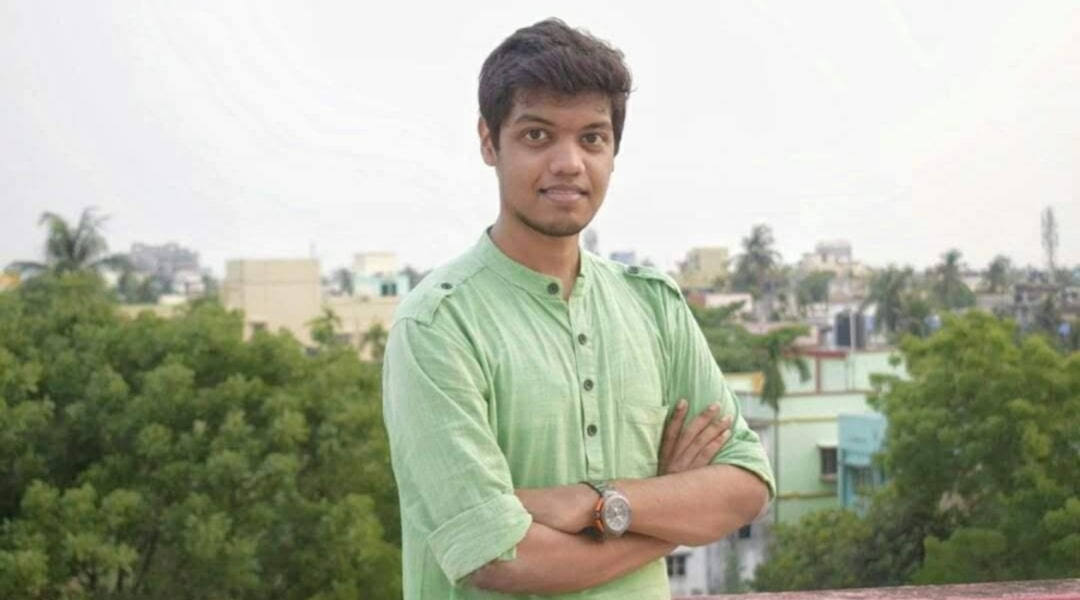
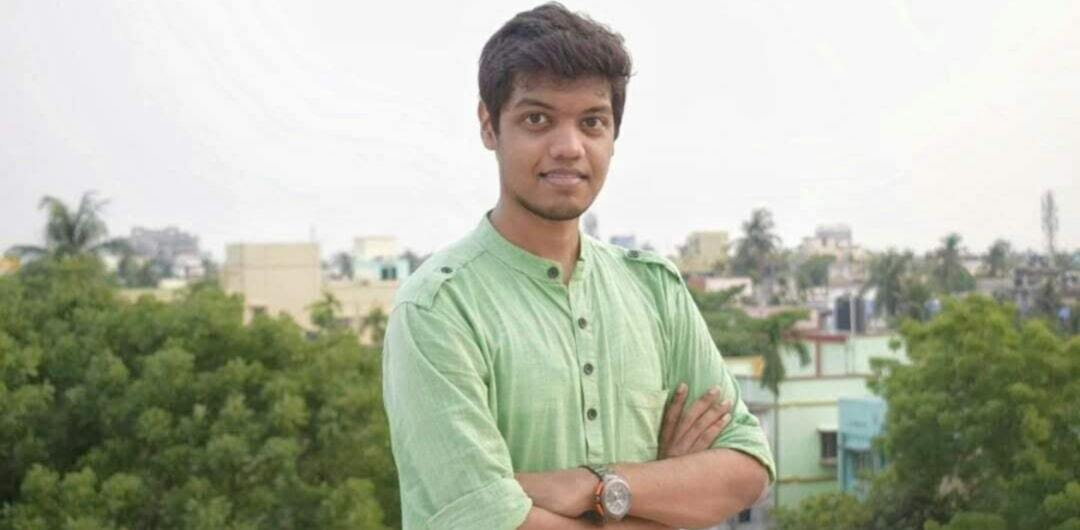
feat(ui): add profile info section

diff --git a/src/containers/profile/styles.tsx b/src/containers/profile/styles.tsx
@@ -1,7 +1,10 @@
 import styled from 'styled-components';
+import { darken } from 'polished';
+
 import {
   LAPTOP, DESKTOP, TABLET,
 } from '../../constants';
+import { TypographyIntroSuper, TypographyIntroReduced, TypographyBody } from '../../styles';
 
 export const ProfileImageWrapper = styled.div`
     width: 100%;
@@ -11,6 +14,7 @@ export const ProfileImageWrapper = styled.div`
 export const CoverImage = styled.img`
     width: 100%;
     max-height: 100%;
+    margin-bottom: 12%;
 `;
 
 export const DisplayImage = styled.img`
@@ -18,7 +22,7 @@ export const DisplayImage = styled.img`
     border-radius: 50%;
     position: absolute;
     left: 5%;
-    bottom: -20%;
+    bottom: 8px;
     border: 4px solid ${({ theme }) => theme.background};
 `;
 
@@ -38,7 +42,7 @@ export const FeedWrapper = styled.section`
 export const Feed = styled.div`
     max-width: 550px;
     min-width: 50%;
-    min-height: 150vh;
+    min-height: 100vh;
     border-right: 1px solid ${({ theme }) => theme.border};
     @media only screen and (max-width: ${TABLET}px) {
         width: 100%;
@@ -56,4 +60,69 @@ export const Aside = styled.aside`
     @media only screen and (max-width: ${TABLET}px) {
         display: none;
     }
+`;
+
+export const Header = styled(TypographyIntroSuper)`
+    color: ${({ theme }) => theme.text};
+    width: 100%;
+    padding: 10px 20px;
+    border-bottom: 1px solid ${({ theme }) => theme.border};
+`;
+
+export const ProfileInfoContainer = styled.section`
+    margin-top: 10px;
+    width: 100%;
+    border-bottom: 1px solid ${({ theme }) => theme.border};
+    padding-left: 20px;
+    padding-bottom: 20px;
+`;
+
+export const Name = styled(TypographyIntroReduced)`
+    font-weight: bold;
+`;
+
+export const ProfileInfoWrapper = styled.div`
+    margin-top: 15px;
+`;
+
+export const ProfileRow = styled.div`
+    width: 100%;
+    display: flex;
+    flex-wrap: wrap;
+    margin-bottom: 8px;
+`;
+
+export const Info = styled(TypographyBody)`
+    display: flex;
+    flex-direction: row;
+    margin-right: 17px;
+    color: ${({ theme }) => theme.text2};
+    margin-bottom: 5px;
+`;
+
+export const InfoLogo = styled.span`
+    height: 100%;
+    width: 16px;
+    max-height: 25px;
+    display: flex;
+    align-items: center;
+    @media only screen and (max-width: ${TABLET}px) {
+        width: 14px;
+    }
+`;
+
+export const InfoLink = styled.a`
+    margin-left: 6px;
+    align-items: stretch;
+    color: ${({ theme }) => theme.color};
+    text-decoration: none;
+    font-weight: bolder;
+    &:hover {
+        color: ${({ theme }) => darken(0.1, theme.color)};
+    }
+`;
+
+export const InfoSpan = styled.span`
+    margin-left: 7px;
+    align-self: stretch
 `;

diff --git a/src/icons/Skills.tsx b/src/icons/Skills.tsx
@@ -9,7 +9,7 @@ const Skills = (): ReactElement => (
     xmlns="http://www.w3.org/2000/svg"
     viewBox="0 0 448 512"
   >
-    <path fill="currentColor" d="M446.381 182.109l1.429-8c1.313-7.355-4.342-14.109-11.813-14.109h-98.601l20.338-113.891C359.047 38.754 353.392 32 345.92 32h-8.127a12 12 0 0 0-11.813 9.891L304.89 160H177.396l20.338-113.891C199.047 38.754 193.392 32 185.92 32h-8.127a12 12 0 0 0-11.813 9.891L144.89 160H42.003a12 12 0 0 0-11.813 9.891l-1.429 8C27.448 185.246 33.103 192 40.575 192h98.6l-22.857 128H13.432a12 12 0 0 0-11.813 9.891l-1.429 8C-1.123 345.246 4.532 352 12.003 352h98.601L90.266 465.891C88.953 473.246 94.608 480 102.08 480h8.127a12 12 0 0 0 11.813-9.891L143.11 352h127.494l-20.338 113.891C248.953 473.246 254.608 480 262.08 480h8.127a12 12 0 0 0 11.813-9.891L303.11 352h102.886a12 12 0 0 0 11.813-9.891l1.429-8c1.313-7.355-4.342-14.109-11.813-14.109h-98.601l22.857-128h102.886a12 12 0 0 0 11.814-9.891zM276.318 320H148.825l22.857-128h127.494l-22.858 128z" className="" />
+    <path fill="currentColor" d="M446.381 182.109l1.429-8c1.313-7.355-4.342-14.109-11.813-14.109h-98.601l20.338-113.891C359.047 38.754 353.392 32 345.92 32h-8.127a12 12 0 0 0-11.813 9.891L304.89 160H177.396l20.338-113.891C199.047 38.754 193.392 32 185.92 32h-8.127a12 12 0 0 0-11.813 9.891L144.89 160H42.003a12 12 0 0 0-11.813 9.891l-1.429 8C27.448 185.246 33.103 192 40.575 192h98.6l-22.857 128H13.432a12 12 0 0 0-11.813 9.891l-1.429 8C-1.123 345.246 4.532 352 12.003 352h98.601L90.266 465.891C88.953 473.246 94.608 480 102.08 480h8.127a12 12 0 0 0 11.813-9.891L143.11 352h127.494l-20.338 113.891C248.953 473.246 254.608 480 262.08 480h8.127a12 12 0 0 0 11.813-9.891L303.11 352h102.886a12 12 0 0 0 11.813-9.891l1.429-8c1.313-7.355-4.342-14.109-11.813-14.109h-98.601l22.857-128h102.886a12 12 0 0 0 11.814-9.891zM276.318 320H148.825l22.857-128h127.494l-22.858 128z" />
   </Icon>
 );
 

diff --git a/src/icons/Github.tsx b/src/icons/Github.tsx
@@ -1,0 +1,16 @@
+import { ReactElement } from 'react';
+import { Icon } from '../styles';
+
+const Github = (): ReactElement => (
+  <Icon
+    aria-hidden="true"
+    focusable="false"
+    role="img"
+    xmlns="http://www.w3.org/2000/svg"
+    viewBox="0 0 496 512"
+  >
+    <path fill="currentColor" d="M165.9 397.4c0 2-2.3 3.6-5.2 3.6-3.3.3-5.6-1.3-5.6-3.6 0-2 2.3-3.6 5.2-3.6 3-.3 5.6 1.3 5.6 3.6zm-31.1-4.5c-.7 2 1.3 4.3 4.3 4.9 2.6 1 5.6 0 6.2-2s-1.3-4.3-4.3-5.2c-2.6-.7-5.5.3-6.2 2.3zm44.2-1.7c-2.9.7-4.9 2.6-4.6 4.9.3 2 2.9 3.3 5.9 2.6 2.9-.7 4.9-2.6 4.6-4.6-.3-1.9-3-3.2-5.9-2.9zM244.8 8C106.1 8 0 113.3 0 252c0 110.9 69.8 205.8 169.5 239.2 12.8 2.3 17.3-5.6 17.3-12.1 0-6.2-.3-40.4-.3-61.4 0 0-70 15-84.7-29.8 0 0-11.4-29.1-27.8-36.6 0 0-22.9-15.7 1.6-15.4 0 0 24.9 2 38.6 25.8 21.9 38.6 58.6 27.5 72.9 20.9 2.3-16 8.8-27.1 16-33.7-55.9-6.2-112.3-14.3-112.3-110.5 0-27.5 7.6-41.3 23.6-58.9-2.6-6.5-11.1-33.3 2.6-67.9 20.9-6.5 69 27 69 27 20-5.6 41.5-8.5 62.8-8.5s42.8 2.9 62.8 8.5c0 0 48.1-33.6 69-27 13.7 34.7 5.2 61.4 2.6 67.9 16 17.7 25.8 31.5 25.8 58.9 0 96.5-58.9 104.2-114.8 110.5 9.2 7.9 17 22.9 17 46.4 0 33.7-.3 75.4-.3 83.6 0 6.5 4.6 14.4 17.3 12.1C428.2 457.8 496 362.9 496 252 496 113.3 383.5 8 244.8 8zM97.2 352.9c-1.3 1-1 3.3.7 5.2 1.6 1.6 3.9 2.3 5.2 1 1.3-1 1-3.3-.7-5.2-1.6-1.6-3.9-2.3-5.2-1zm-10.8-8.1c-.7 1.3.3 2.9 2.3 3.9 1.6 1 3.6.7 4.3-.7.7-1.3-.3-2.9-2.3-3.9-2-.6-3.6-.3-4.3.7zm32.4 35.6c-1.6 1.3-1 4.3 1.3 6.2 2.3 2.3 5.2 2.6 6.5 1 1.3-1.3.7-4.3-1.3-6.2-2.2-2.3-5.2-2.6-6.5-1zm-11.4-14.7c-1.6 1-1.6 3.6 0 5.9 1.6 2.3 4.3 3.3 5.6 2.3 1.6-1.3 1.6-3.9 0-6.2-1.4-2.3-4-3.3-5.6-2z" />
+  </Icon>
+);
+
+export default Github;

diff --git a/src/containers/profile/index.tsx b/src/containers/profile/index.tsx
@@ -7,7 +7,18 @@ import {
   FeedWrapper,
   Feed,
   Aside,
+  Header,
+  ProfileInfoContainer,
+  Name,
+  ProfileInfoWrapper,
+  ProfileRow,
+  Info,
+  InfoLogo,
+  InfoSpan,
+  InfoLink,
 } from './styles';
+
+import profileInfo, { rowType } from '../../metadata/profileInfo';
 
 import Cover from '../../images/Cover.jpg';
 import Display from '../../images/Display.jpg';
@@ -15,10 +26,37 @@ import Display from '../../images/Display.jpg';
 const Profile = (): ReactElement => (
   <FeedWrapper>
     <Feed>
+      <Header>Profile</Header>
       <ProfileImageWrapper>
         <CoverImage src={Cover} alt="" />
         <DisplayImage src={Display} alt="" />
       </ProfileImageWrapper>
+      <ProfileInfoContainer>
+        <Name>Himayan Debnath</Name>
+        <ProfileInfoWrapper>
+          {profileInfo.map((row: rowType[]) => (
+            <ProfileRow>
+              {row.map(({ icon: Icon, label, link }: rowType): ReactElement => (
+                <Info>
+                  <InfoLogo>
+                    <Icon />
+                  </InfoLogo>
+                  {link ? (
+                    <InfoLink
+                      href={link}
+                      target="blank"
+                    >
+                      {label}
+                    </InfoLink>
+                  ) : (
+                    <InfoSpan>{label}</InfoSpan>
+                  )}
+                </Info>
+              ))}
+            </ProfileRow>
+          ))}
+        </ProfileInfoWrapper>
+      </ProfileInfoContainer>
     </Feed>
     <Aside />
   </FeedWrapper>

diff --git a/src/icons/Birthday.tsx b/src/icons/Birthday.tsx
@@ -1,0 +1,16 @@
+import { ReactElement } from 'react';
+import { Icon } from '../styles';
+
+const Birthday = (): ReactElement => (
+  <Icon
+    aria-hidden="true"
+    focusable="false"
+    role="img"
+    xmlns="http://www.w3.org/2000/svg"
+    viewBox="0 0 448 512"
+  >
+    <path fill="currentColor" d="M96 96c-17.75 0-32-14.25-32-32 0-31 32-23 32-64 12 0 32 29.5 32 56s-14.25 40-32 40zm128 0c-17.75 0-32-14.25-32-32 0-31 32-23 32-64 12 0 32 29.5 32 56s-14.25 40-32 40zm128 0c-17.75 0-32-14.25-32-32 0-31 32-23 32-64 12 0 32 29.5 32 56s-14.25 40-32 40zm48 160h-32V112h-32v144h-96V112h-32v144h-96V112H80v144H48c-26.5 0-48 21.5-48 48v208h448V304c0-26.5-21.5-48-48-48zm16 224H32v-72.043C48.222 398.478 55.928 384 74.75 384c27.951 0 31.253 32 74.75 32 42.843 0 47.217-32 74.5-32 28.148 0 31.201 32 74.75 32 43.357 0 46.767-32 74.75-32 18.488 0 26.245 14.475 42.5 23.955V480zm0-112.374C406.374 359.752 394.783 352 373.5 352c-43.43 0-46.825 32-74.75 32-27.695 0-31.454-32-74.75-32-42.842 0-47.218 32-74.5 32-28.148 0-31.202-32-74.75-32-21.463 0-33.101 7.774-42.75 15.658V304c0-8.822 7.178-16 16-16h352c8.822 0 16 7.178 16 16v63.626z" />
+  </Icon>
+);
+
+export default Birthday;

diff --git a/src/icons/Twitter.tsx b/src/icons/Twitter.tsx
@@ -1,0 +1,16 @@
+import { ReactElement } from 'react';
+import { Icon } from '../styles';
+
+const Twitter = (): ReactElement => (
+  <Icon
+    aria-hidden="true"
+    focusable="false"
+    role="img"
+    xmlns="http://www.w3.org/2000/svg"
+    viewBox="0 0 512 512"
+  >
+    <path fill="currentColor" d="M459.37 151.716c.325 4.548.325 9.097.325 13.645 0 138.72-105.583 298.558-298.558 298.558-59.452 0-114.68-17.219-161.137-47.106 8.447.974 16.568 1.299 25.34 1.299 49.055 0 94.213-16.568 130.274-44.832-46.132-.975-84.792-31.188-98.112-72.772 6.498.974 12.995 1.624 19.818 1.624 9.421 0 18.843-1.3 27.614-3.573-48.081-9.747-84.143-51.98-84.143-102.985v-1.299c13.969 7.797 30.214 12.67 47.431 13.319-28.264-18.843-46.781-51.005-46.781-87.391 0-19.492 5.197-37.36 14.294-52.954 51.655 63.675 129.3 105.258 216.365 109.807-1.624-7.797-2.599-15.918-2.599-24.04 0-57.828 46.782-104.934 104.934-104.934 30.213 0 57.502 12.67 76.67 33.137 23.715-4.548 46.456-13.32 66.599-25.34-7.798 24.366-24.366 44.833-46.132 57.827 21.117-2.273 41.584-8.122 60.426-16.243-14.292 20.791-32.161 39.308-52.628 54.253z" />
+  </Icon>
+);
+
+export default Twitter;

diff --git a/src/icons/Messages.tsx b/src/icons/Messages.tsx
@@ -9,7 +9,7 @@ const Messages = (): ReactElement => (
     xmlns="http://www.w3.org/2000/svg"
     viewBox="0 0 576 512"
   >
-    <path fill="currentColor" d="M432 64H144A144 144 0 0 0 0 208v208a32 32 0 0 0 32 32h512a32 32 0 0 0 32-32V208A144 144 0 0 0 432 64zM256 416H32V208a112 112 0 0 1 224 0zm288 0H288V208c0-45.52-21.54-85.61-54.51-112H432a112.12 112.12 0 0 1 112 112zm-48-224H328a8 8 0 0 0-8 8v16a8 8 0 0 0 8 8h88v80a16 16 0 0 0 16 16h64a16 16 0 0 0 16-16v-96a16 16 0 0 0-16-16zm-16 96h-32v-64h32zm-296-96h-80a8 8 0 0 0-8 8v16a8 8 0 0 0 8 8h80a8 8 0 0 0 8-8v-16a8 8 0 0 0-8-8z" className="" />
+    <path fill="currentColor" d="M432 64H144A144 144 0 0 0 0 208v208a32 32 0 0 0 32 32h512a32 32 0 0 0 32-32V208A144 144 0 0 0 432 64zM256 416H32V208a112 112 0 0 1 224 0zm288 0H288V208c0-45.52-21.54-85.61-54.51-112H432a112.12 112.12 0 0 1 112 112zm-48-224H328a8 8 0 0 0-8 8v16a8 8 0 0 0 8 8h88v80a16 16 0 0 0 16 16h64a16 16 0 0 0 16-16v-96a16 16 0 0 0-16-16zm-16 96h-32v-64h32zm-296-96h-80a8 8 0 0 0-8 8v16a8 8 0 0 0 8 8h80a8 8 0 0 0 8-8v-16a8 8 0 0 0-8-8z" />
   </Icon>
 );
 

diff --git a/src/App.tsx b/src/App.tsx
@@ -19,7 +19,7 @@ import {
 } from './styles';
 import header from './metadata/header';
 import {
-  COLORS, AMBIENCE, AMBIENCES, COLOR_MAP,
+  COLORS, AMBIENCE, AMBIENCES, COLOR_MAP, ROUTES,
 } from './constants';
 
 const App = (): ReactElement => {
@@ -35,7 +35,7 @@ const App = (): ReactElement => {
 
   const checkIfActive = (path: string): boolean => {
     if (location.pathname === path) return true;
-    if (location.pathname === '/' && path === '/profile') return true;
+    if (location.pathname === ROUTES.DEFAULT && path === ROUTES.PROFILE) return true;
     return false;
   };
 
@@ -72,8 +72,8 @@ const App = (): ReactElement => {
         </Left>
         <Right>
           <Switch>
-            <Route path="/profile" component={Profile} />
-            <Route path="/settings">
+            <Route path={ROUTES.PROFILE} component={Profile} />
+            <Route path={ROUTES.SETTINGS}>
               <Settings
                 color={color}
                 ambience={ambience}

diff --git a/src/metadata/profileInfo.ts b/src/metadata/profileInfo.ts
@@ -1,0 +1,43 @@
+import { FC } from 'react';
+
+import Birthday from '../icons/Birthday';
+import Location from '../icons/Location';
+import LinkedIn from '../icons/LinkedIn';
+import Github from '../icons/Github';
+import Twitter from '../icons/Twitter';
+
+const profileInfo = [
+  [
+    {
+      icon: Location,
+      label: 'Bengaluru',
+    },
+    {
+      icon: Birthday,
+      label: 'September 21, 1996',
+    },
+  ], [
+    {
+      icon: Github,
+      label: '@himayand21',
+      link: 'https://github.com/himayand21',
+    }, {
+      icon: Twitter,
+      label: '@himayan7',
+      link: 'https://twitter.com/Himayan7',
+    },
+    {
+      icon: LinkedIn,
+      label: '@himayan-debnath',
+      link: 'https://www.linkedin.com/in/himayan-debnath',
+    },
+  ],
+];
+
+export type rowType = {
+  icon: FC,
+  label: string,
+  link?: string,
+};
+
+export default profileInfo;

diff --git a/src/icons/Location.tsx b/src/icons/Location.tsx
@@ -1,0 +1,16 @@
+import { ReactElement } from 'react';
+import { Icon } from '../styles';
+
+const Location = (): ReactElement => (
+  <Icon
+    aria-hidden="true"
+    focusable="false"
+    role="img"
+    xmlns="http://www.w3.org/2000/svg"
+    viewBox="0 0 384 512"
+  >
+    <path fill="currentColor" d="M192 96c-52.935 0-96 43.065-96 96s43.065 96 96 96 96-43.065 96-96-43.065-96-96-96zm0 160c-35.29 0-64-28.71-64-64s28.71-64 64-64 64 28.71 64 64-28.71 64-64 64zm0-256C85.961 0 0 85.961 0 192c0 77.413 26.97 99.031 172.268 309.67 9.534 13.772 29.929 13.774 39.465 0C357.03 291.031 384 269.413 384 192 384 85.961 298.039 0 192 0zm0 473.931C52.705 272.488 32 256.494 32 192c0-42.738 16.643-82.917 46.863-113.137S149.262 32 192 32s82.917 16.643 113.137 46.863S352 149.262 352 192c0 64.49-20.692 80.47-160 281.931z" />
+  </Icon>
+);
+
+export default Location;

diff --git a/src/constants/theme.ts b/src/constants/theme.ts
@@ -41,7 +41,7 @@ const DARK_AMBIENCE = {
   ...COMMON_AMBIENCE,
   text: 'rgb(217, 217, 217)',
   text2: 'rgb(110, 118, 125)',
-  background: 'rgb(10, 10, 10)',
+  background: 'rgb(25, 25, 25)',
   backgroundHover: 'rgba(255, 255, 255, 0.03)',
   border: 'rgb(47, 51, 54)',
 };
@@ -49,12 +49,12 @@ const DARK_AMBIENCE = {
 export const COLOR_MAP = {
   [COLORS.SKY]: 'rgb(29, 161, 242)',
   [COLORS.GREEN]: 'rgb(23, 191, 99)',
-  [COLORS.RED]: 'rgb(228, 0, 0)',
+  [COLORS.RED]: 'rgb(255, 0, 0)',
   [COLORS.ORANGE]: 'rgb(244, 93, 34)',
-  [COLORS.PURPLE]: 'rgb(121, 75, 196)',
+  [COLORS.PURPLE]: 'rgb(161, 75, 196)',
   [COLORS.YELLOW]: 'rgb(255, 173, 31)',
   [COLORS.BLUE]: 'rgb(66, 103, 178)',
-  [COLORS.PINK]: 'rgb(224, 36, 94)',
+  [COLORS.PINK]: 'rgb(255, 16, 94)',
 };
 
 export const AMBIENCES = {

diff --git a/src/icons/Check.tsx b/src/icons/Check.tsx
@@ -9,7 +9,7 @@ const Check = (): ReactElement => (
     xmlns="http://www.w3.org/2000/svg"
     viewBox="0 0 448 512"
   >
-    <path fill="currentColor" d="M413.505 91.951L133.49 371.966l-98.995-98.995c-4.686-4.686-12.284-4.686-16.971 0L6.211 284.284c-4.686 4.686-4.686 12.284 0 16.971l118.794 118.794c4.686 4.686 12.284 4.686 16.971 0l299.813-299.813c4.686-4.686 4.686-12.284 0-16.971l-11.314-11.314c-4.686-4.686-12.284-4.686-16.97 0z" className="" />
+    <path fill="currentColor" d="M413.505 91.951L133.49 371.966l-98.995-98.995c-4.686-4.686-12.284-4.686-16.971 0L6.211 284.284c-4.686 4.686-4.686 12.284 0 16.971l118.794 118.794c4.686 4.686 12.284 4.686 16.971 0l299.813-299.813c4.686-4.686 4.686-12.284 0-16.971l-11.314-11.314c-4.686-4.686-12.284-4.686-16.97 0z" />
   </Icon>
 );
 
